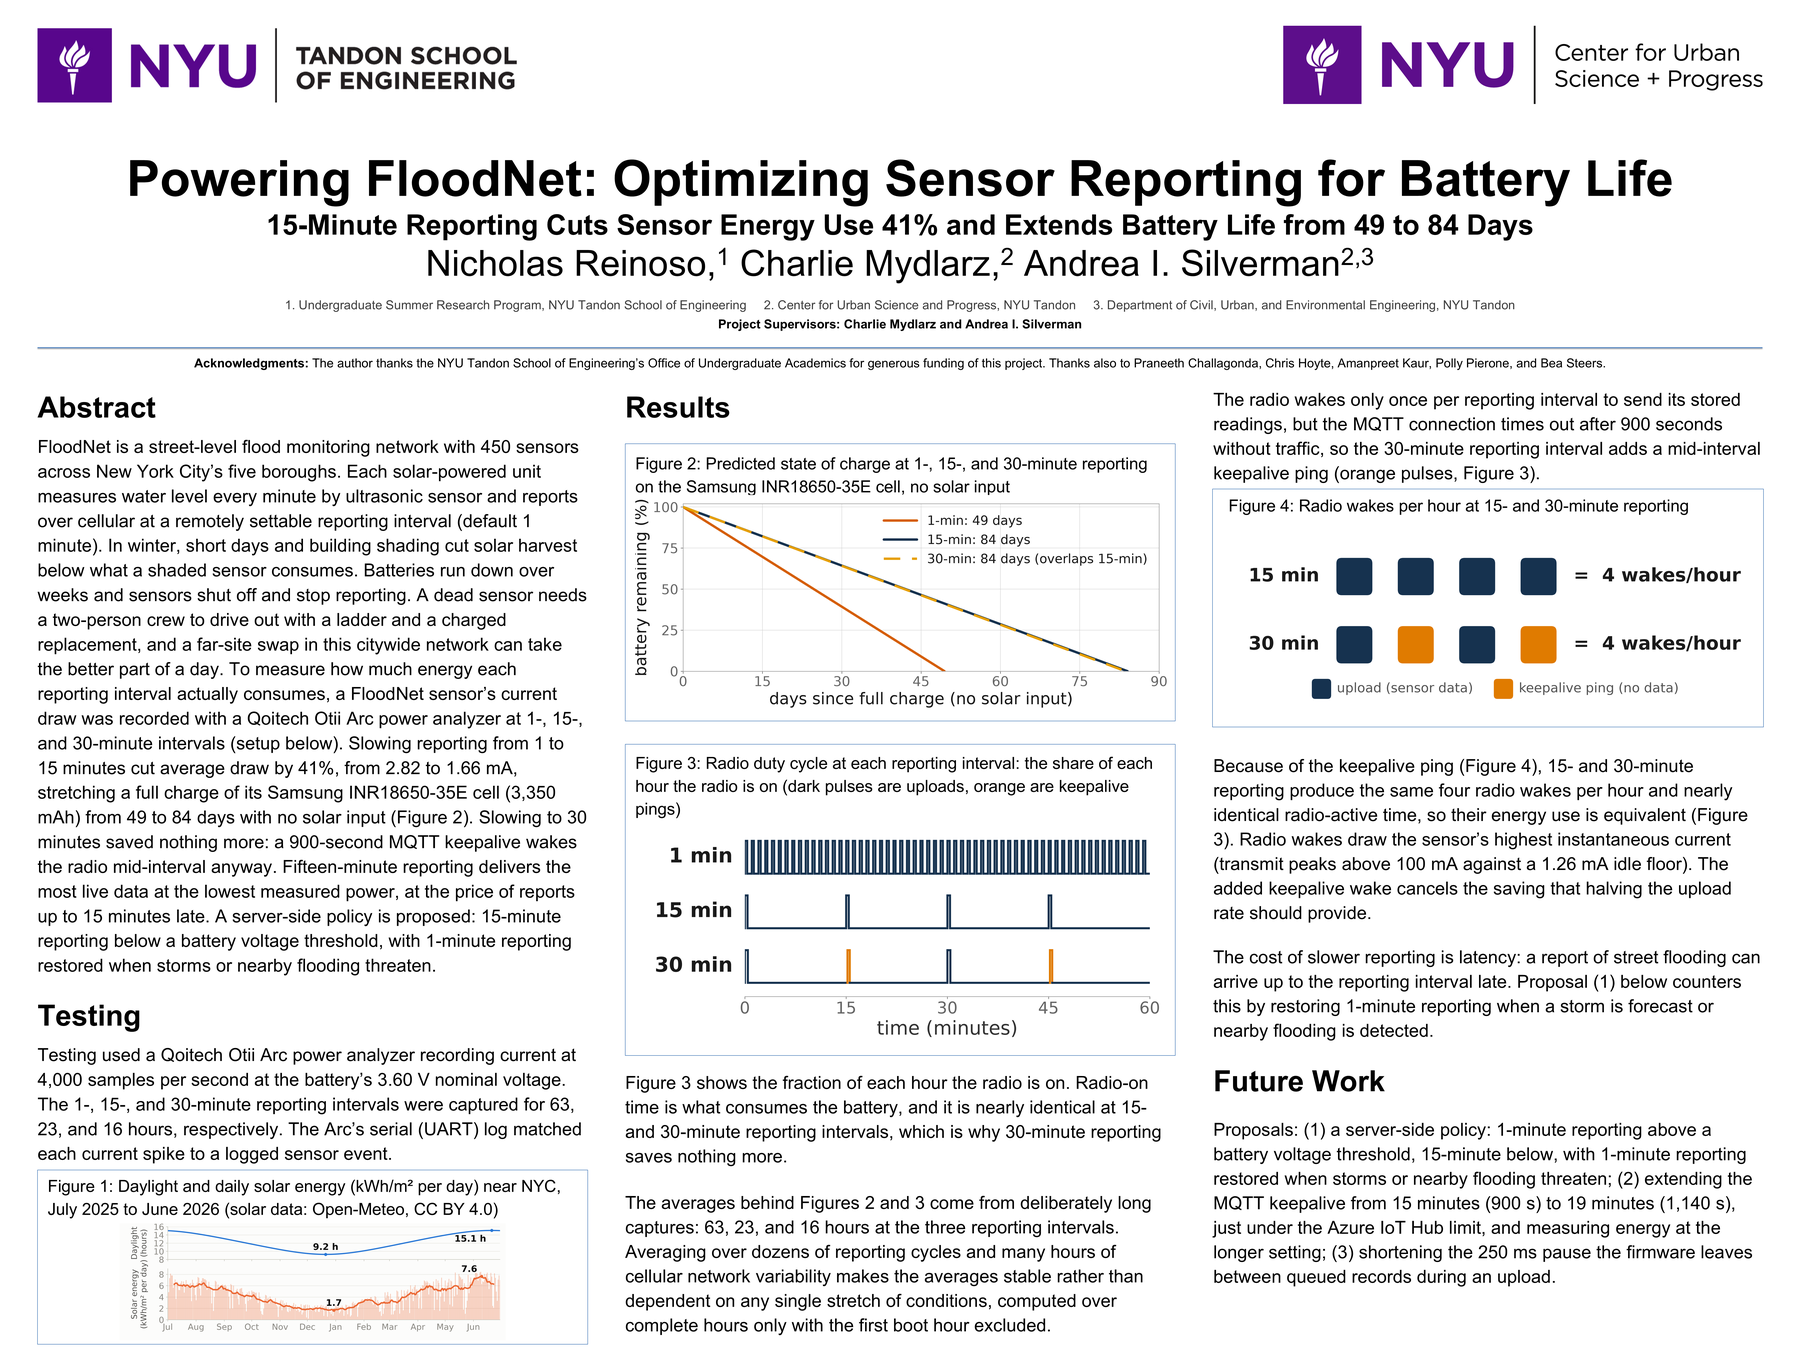
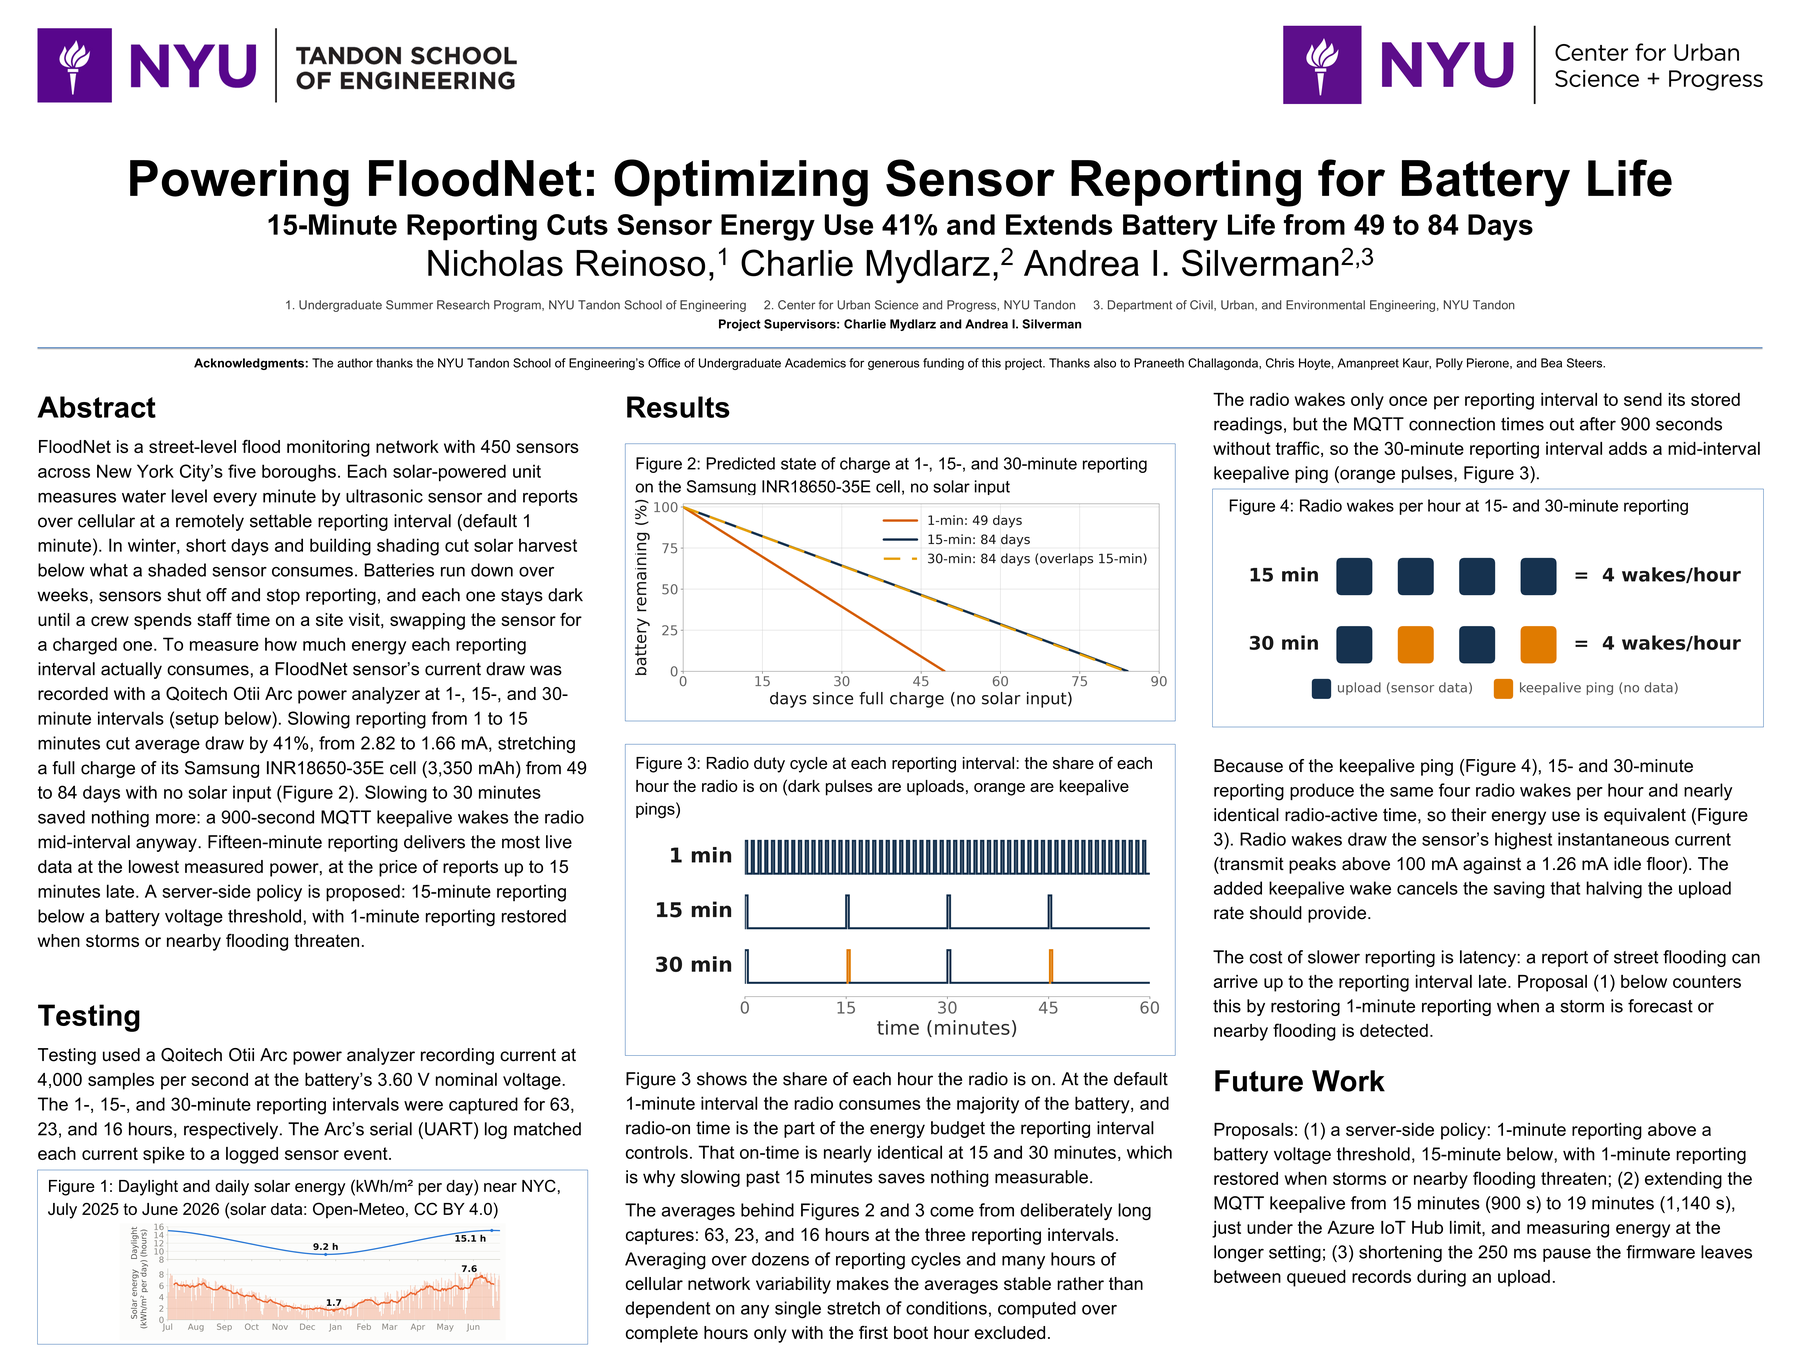
Revert field-visit detail; scope the duty-cycle energy claim
The motivation wording returns to the round-9 phrasing with only the
charged-sensor correction kept (a crew travels out and swaps the sensor for
a charged one); the two-person, ladder, and day-long details are out. The
paragraph below Figure 3 now scopes the energy claim to what the evidence
supports: the radio consumes the majority of the battery at the default
1-minute interval, and radio-on time is the part of the energy budget the
reporting interval controls. The long abstract also aligns "slowing the
reporting rate" to "slowing the reporting interval".

Changed region(s): [[0.0, 0.4356, 0.3422, 0.7156], [0.3422, 0.7778, 0.6533, 0.9956]]

diff --git a/abstract/Abstract - FloodNet UGSRP.md b/abstract/Abstract - FloodNet UGSRP.md
@@ -1,1 +1,1 @@
-FloodNet operates 450 low-cost, solar-powered ultrasonic sensors that report street-level flooding across New York City's five boroughs. Each sensor measures water level every minute and transmits over cellular at a reporting interval that can be changed remotely, from every minute (the default) up to every 30 minutes. In winter, shorter days and building shading cut solar harvest at shaded sites below what a sensor consumes. Batteries run down over weeks and sensors shut off and stop reporting, and each dead sensor needs a two-person crew driving out with a ladder and a charged replacement, which for the farther sites in this citywide network can take the better part of a day. To determine how much power slowing the reporting rate actually saves, bench measurements were taken on an actual FloodNet sensor. It was instrumented with a Qoitech Otii Arc power analyzer at the battery's 3.60 V nominal voltage, recording current at 4,000 samples per second across 1-, 15-, and 30-minute reporting intervals in 63-, 23-, and 16-hour captures, long enough to average over dozens of reporting cycles and many hours of network variability so the averages are stable. The analyzer's UART logging tied each current spike to a logged firmware event. Slowing reporting from 1 to 15 minutes cut average current draw by 41 percent, from 2.82 mA to 1.66 mA, stretching a full charge of the sensor's Samsung INR18650-35E lithium-ion cell from 49 to 84 days with no solar input. Slowing further to 30 minutes saved nothing measurable, because the firmware's 900-second MQTT keepalive wakes the cellular modem halfway through each 30-minute interval to keep its server connection alive: the radio wakes four times per hour on either schedule. Fifteen-minute reporting therefore delivers the most live data at the sensor's lowest measured power. The tradeoff is latency: at a slower rate, a report can arrive up to the reporting interval late. A server-side reporting policy is proposed, not yet deployed, to manage that tradeoff: sensors above a battery voltage threshold keep 1-minute reporting, sensors below it drop to 15 minutes, and a forecast storm or nearby flooding restores 1-minute reporting so flood coverage is never compromised.
+FloodNet operates 450 low-cost, solar-powered ultrasonic sensors that report street-level flooding across New York City's five boroughs. Each sensor measures water level every minute and transmits over cellular at a reporting interval that can be changed remotely, from every minute (the default) up to every 30 minutes. In winter, shorter days and building shading cut solar harvest at shaded sites below what a sensor consumes. Batteries run down over weeks and sensors shut off and stop reporting, and each dead sensor costs staff time: a crew must travel to the site and swap the sensor for a charged one. To determine how much power slowing the reporting interval actually saves, bench measurements were taken on an actual FloodNet sensor. It was instrumented with a Qoitech Otii Arc power analyzer at the battery's 3.60 V nominal voltage, recording current at 4,000 samples per second across 1-, 15-, and 30-minute reporting intervals in 63-, 23-, and 16-hour captures, long enough to average over dozens of reporting cycles and many hours of network variability so the averages are stable. The analyzer's UART logging tied each current spike to a logged firmware event. Slowing reporting from 1 to 15 minutes cut average current draw by 41 percent, from 2.82 mA to 1.66 mA, stretching a full charge of the sensor's Samsung INR18650-35E lithium-ion cell from 49 to 84 days with no solar input. Slowing further to 30 minutes saved nothing measurable, because the firmware's 900-second MQTT keepalive wakes the cellular modem halfway through each 30-minute interval to keep its server connection alive: the radio wakes four times per hour on either schedule. Fifteen-minute reporting therefore delivers the most live data at the sensor's lowest measured power. The tradeoff is latency: at a slower rate, a report can arrive up to the reporting interval late. A server-side reporting policy is proposed, not yet deployed, to manage that tradeoff: sensors above a battery voltage threshold keep 1-minute reporting, sensors below it drop to 15 minutes, and a forecast storm or nearby flooding restores 1-minute reporting so flood coverage is never compromised.

diff --git a/README.md b/README.md
@@ -15,10 +15,10 @@ flooding across New York City's five boroughs. Each sensor measures water level 
 and transmits over cellular at a reporting interval that can be changed remotely, from every
 minute (the default) up to every 30 minutes. In winter, shorter days and building shading cut
 solar harvest at shaded sites below what a sensor consumes. Batteries run down over weeks and
-sensors shut off and stop reporting, and each dead sensor needs a two-person crew driving
-out with a ladder and a charged replacement, which for the farther sites in this citywide
-network can take the better part of a day. To determine how much power slowing the reporting
-rate actually saves, bench measurements were taken on an actual FloodNet sensor. It was
+sensors shut off and stop reporting, and each dead sensor costs staff time: a crew must
+travel to the site and swap the sensor for a charged one. To determine how much power
+slowing the reporting interval actually saves, bench measurements were taken on an actual
+FloodNet sensor. It was
 instrumented with a Qoitech Otii Arc
 power analyzer at the battery's 3.60 V nominal voltage, recording current at 4,000 samples
 per second across 1-, 15-, and 30-minute reporting intervals in 63-, 23-, and 16-hour
